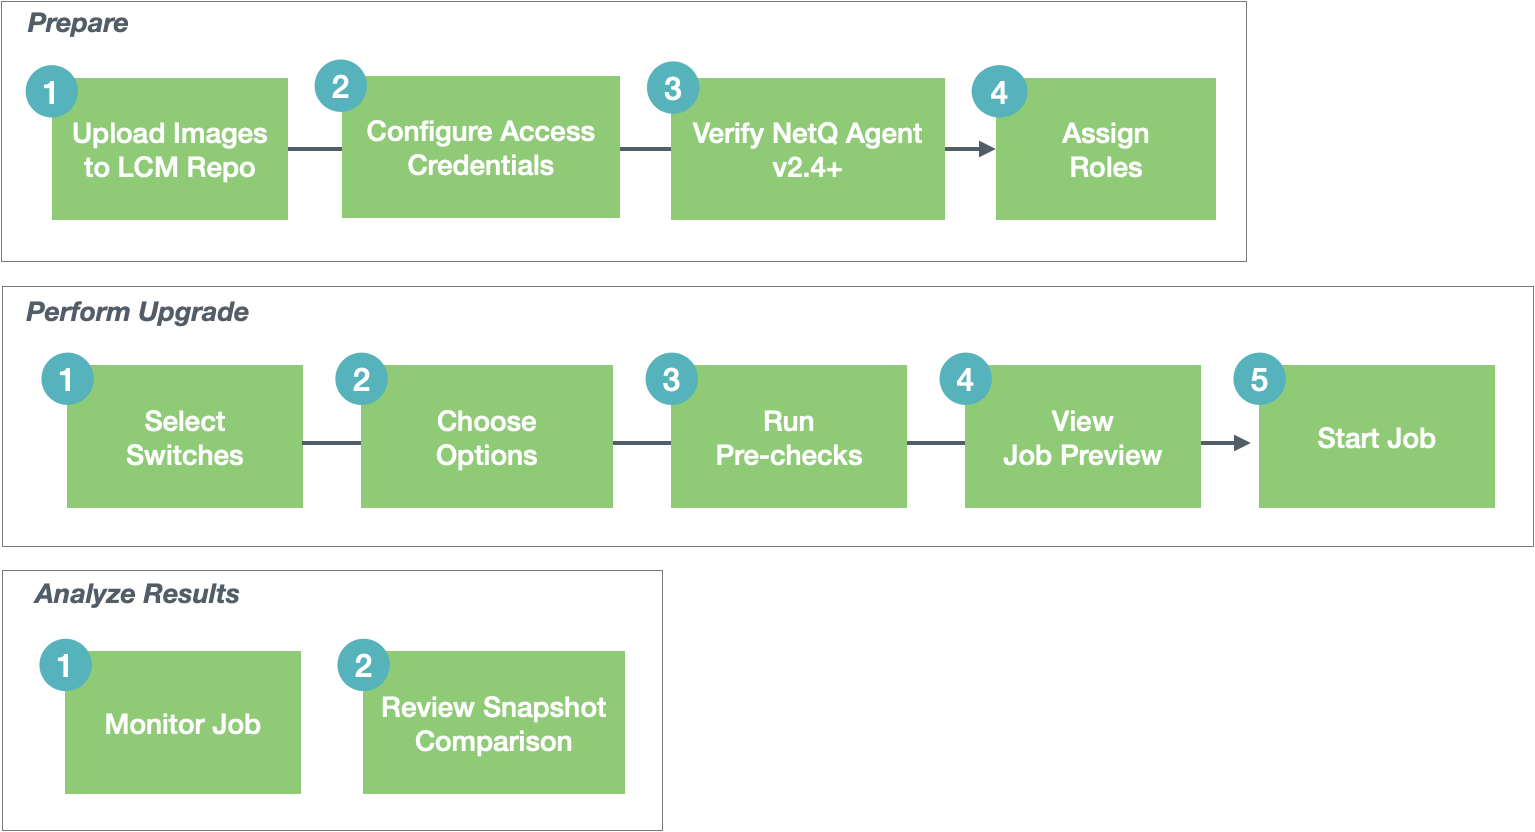
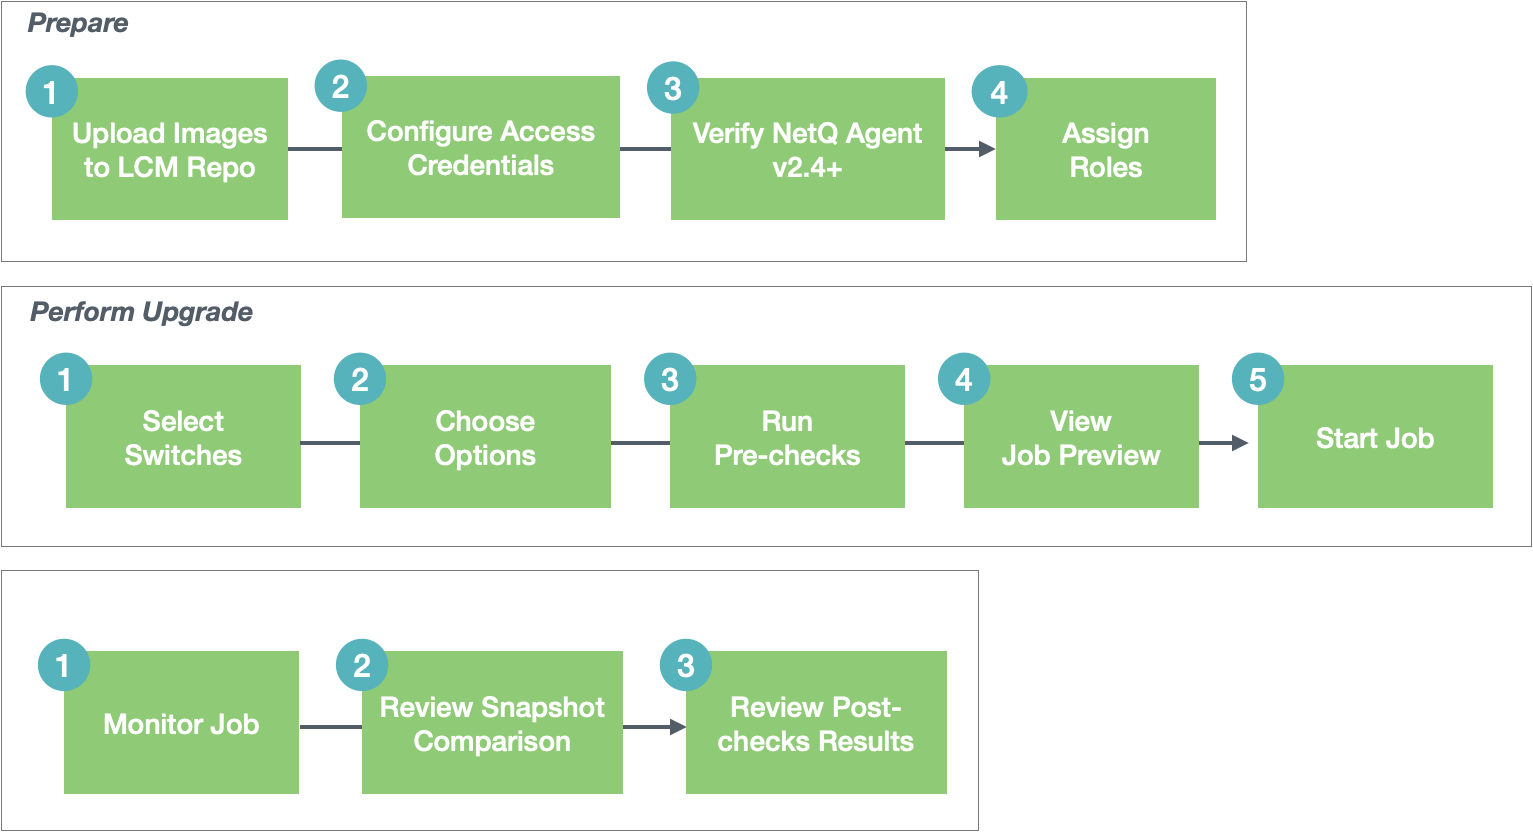
Incorporated some of Sankaran's feedback

diff --git a/content/cumulus-netq-30/Cumulus-NetQ-Admin-User-Guide/Lifecycle-Management.md b/content/cumulus-netq-30/Cumulus-NetQ-Admin-User-Guide/Lifecycle-Management.md
@@ -481,9 +481,9 @@ To remove an existing snapshot:
 
     Click **Back** or **Choose Action** to cancel the deletion of your selected snapshot(s).
 
-## Image Installation and Upgrade
+## Cumulus Linux Upgrade
 
-The workflow for installation and upgrade using LCM is to select switches, choose options, run pre-checks, view job preview, begin job, monitor job, review snapshot comparison and analyze as needed.
+The workflow for installation and upgrade of Cumulus Linux using LCM is to: select switches, choose options, run pre-checks, view job preview, begin job, monitor job, review snapshot comparison and analyze as needed.
 
 {{<figure src="/images/netq/lcm-upgrade-workflow-300.png" width="700">}}
 
@@ -508,7 +508,7 @@ Your LCM dashboard should look similar to this after you have completed these st
 
 To install or upgrade switches:
 
-1. Click {{<img src="https://icons.cumulusnetworks.com/01-Interface-Essential/03-Menu/navigation-menu.svg" height="18" width="18" alt="Main Menu">}} (Main Menu) and select **Upgrade Switches**.
+1. Click {{<img src="https://icons.cumulusnetworks.com/01-Interface-Essential/03-Menu/navigation-menu.svg" height="18" width="18" alt="Main Menu">}} (Main Menu) and select **Upgrade Switches**, or click {{<img src="https://icons.cumulusnetworks.com/05-Internet-Networks-Servers/06-Servers/server-upload.svg" height="18" width="18">}} (Upgrade) in a workbench header.
 
 2. Click **Manage** on the Switches card.
 
@@ -628,13 +628,13 @@ To install or upgrade switches:
     </tr>
     <tr>
     <td></td>
-    <td>Upgrade CL version and current CL version on switch &lt;hostname&gt; are the same.</td>
+    <td>CL version to be upgraded to and current version on switch &lt;hostname&gt; are the same.</td>
     <td>Warning</td>
     <td>Switch is already operating the desired upgrade CL version. No upgrade is required.</td>
     <td>Choose an alternate CL version for upgrade or remove switch from upgrade job.</td>
     </tr>
     <tr>
-    <td>(3) Switch Reachability</td>
+    <td>(3) Switch Connectivity</td>
     <td>Global credentials are not specified</td>
     <td>Error</td>
     <td>Switch access credentials are required to perform a CL upgrade, and they have not been specified.</td>
@@ -755,17 +755,17 @@ Several viewing options are available for monitoring the upgrade job.
 
     {{<figure src="/images/netq/lcm-upgrade-switches-job-upgrading-300.png" width="700">}}
 
-- Monitor the job with summary information only in the Update History page by clicking {{<img src="https://icons.cumulusnetworks.com/01-Interface-Essential/33-Form-Validation/close.svg" height="14" width="14">}}:
+- Monitor the job with summary information only in the Upgrade History page. Open this view by clicking {{<img src="https://icons.cumulusnetworks.com/01-Interface-Essential/33-Form-Validation/close.svg" height="14" width="14">}} in the full details view:
 
     {{<figure src="/images/netq/lcm-upgrade-switches-upg-history-upgrading-summary-300.png" width="700">}}
 
-    Click {{<img src="https://icons.cumulusnetworks.com/52-Arrows-Diagrams/01-Arrows/arrow-down-1.svg" height="18" width="18">}} to view what stage the job is in.
+    This view is refreshed automatically. Click {{<img src="https://icons.cumulusnetworks.com/52-Arrows-Diagrams/01-Arrows/arrow-down-1.svg" height="18" width="18">}} to view what stage the job is in.
 
     {{<figure src="/images/netq/lcm-upgrade-switches-upg-history-stage-view-300.png" width="700">}}
 
     Click {{<img src="https://icons.cumulusnetworks.com/52-Arrows-Diagrams/01-Arrows/arrow-right-1.svg" height="18" width="18">}} to view the detailed view.
 
-After either a successful or failed upgrade attempt has been run, a new Upgrade History card appears on your LCM dashboard.
+After either a successful or failed upgrade attempt has been performed, a new Upgrade History card appears on your LCM dashboard.
 
 {{<figure src="/images/netq/lcm-upgrade-history-card-300.png" width="200">}}
 
@@ -795,6 +795,46 @@ On successful completion, you can:
 
     In our example, all switches have been upgraded to Cumulus Linux 3.7.12.
 
+Upgrades can be considered successful and still have post-check warnings. For example, the OS has been updated, but not all services are fully up and running after the upgrade. If one or more of the post-checks fail, warning messages are provided in the Post-Upgrade Tasks section of the preview. Click on the warning category to view the detailed messages.
+
+<!-- Expand the following dropdown to view common failures, their causes and corrective actions.
+
+<details><summary>Post-check Failure Messages</summary>
+<table>
+<colgroup>
+<col style="width: 10%" />
+<col style="width: 24%" />
+<col style="width: 10%" />
+<col style="width: 23%" />
+<col style="width: 23%" />
+</colgroup>
+<thead>
+<tr>
+<th>Post-check</th>
+<th>Message</th>
+<th>Type</th>
+<th>Description</th>
+<th>Corrective Action</th>
+</tr>
+</thead>
+<tbody>
+<tr>
+<td>Health of Services</td>
+<td>Service &lt;service-name&gt; is missing on Host &lt;hostname&gt; for &lt;VRF default|VRF mgmt&gt;.</td>
+<td>Warning</td>
+<td>A given service is not yet running on the upgraded host. For example: Service ntp is missing on Host Leaf01 for VRF default.</td>
+<td>Wait for up to x more minutes to see if the specified services come up. If they do not, xxx.</td>
+</tr>
+<tr>
+<td>Switch Connectivity</td>
+<td>Service &lt;service-name&gt; is missing on Host &lt;hostname&gt; for &lt;VRF default|VRF mgmt&gt;.</td>
+<td>Warning</td>
+<td>A given service is not yet running on the upgraded host. For example: Service ntp is missing on Host Leaf01 for VRF default.</td>
+<td>Wait for up to x more minutes to see if the specified services come up. If they do not, xxx.</td>
+</tr>
+</tbody>
+</table> -->
+
 #### Sample Failed Upgrade
 
 If an upgrade job fails for any reason, you can view the associated error(s):
@@ -819,14 +859,14 @@ If an upgrade job fails for any reason, you can view the associated error(s):
 
 #### Reasons for Upgrade Failure
 
-Upgrades can fail at any of the stages of of the process, including when backing up data, upgrading the Cumulus Linux software, and restoring the data. Failures can occur when attempting to connect to a switch or perform a particular task on the switch.
+Upgrades can fail at any of the stages of the process, including when backing up data, upgrading the Cumulus Linux software, and restoring the data. Failures can occur when attempting to connect to a switch or perform a particular task on the switch.
 
 Some of the common reasons for upgrade failures and the errors they present:
 
 | Reason | Error Message |
 | --- | --- |
 | Switch is not reachable via SSH | Data could not be sent to remote host "192.168.0.15". Make sure this host can be reached over ssh: ssh: connect to host 192.168.0.15 port 22: No route to host |
-| Switch is reachable, but user-provided credentials are invalid | Invalid/incorrect username/password. Skipping remaining 2 retries to prevent account lockout: Warning: Permanently added [10.20.251.35]:1120' (ECDSA) to the list of known hosts. Permission denied, please try again. |
+| Switch is reachable, but user-provided credentials are invalid | Invalid/incorrect username/password. Skipping remaining 2 retries to prevent account lockout: Warning: Permanently added '\<hostname-ipaddr\>' to the list of known hosts. Permission denied, please try again. |
 | Switch is reachable, but a valid Cumulus Linux license is not installed | 1587866683.880463 2020-04-26 02:04:43 license.c:336 CRIT No license file. No license installed! |
 | Upgrade task could not be run | Failure message depends on the why the task could not be run. For example: /etc/network/interfaces: No such file or directory |
 | Upgrade task failed | Failed at- \<task that failed\>. For example: Failed at- MLAG check for the peerLink interface status |
